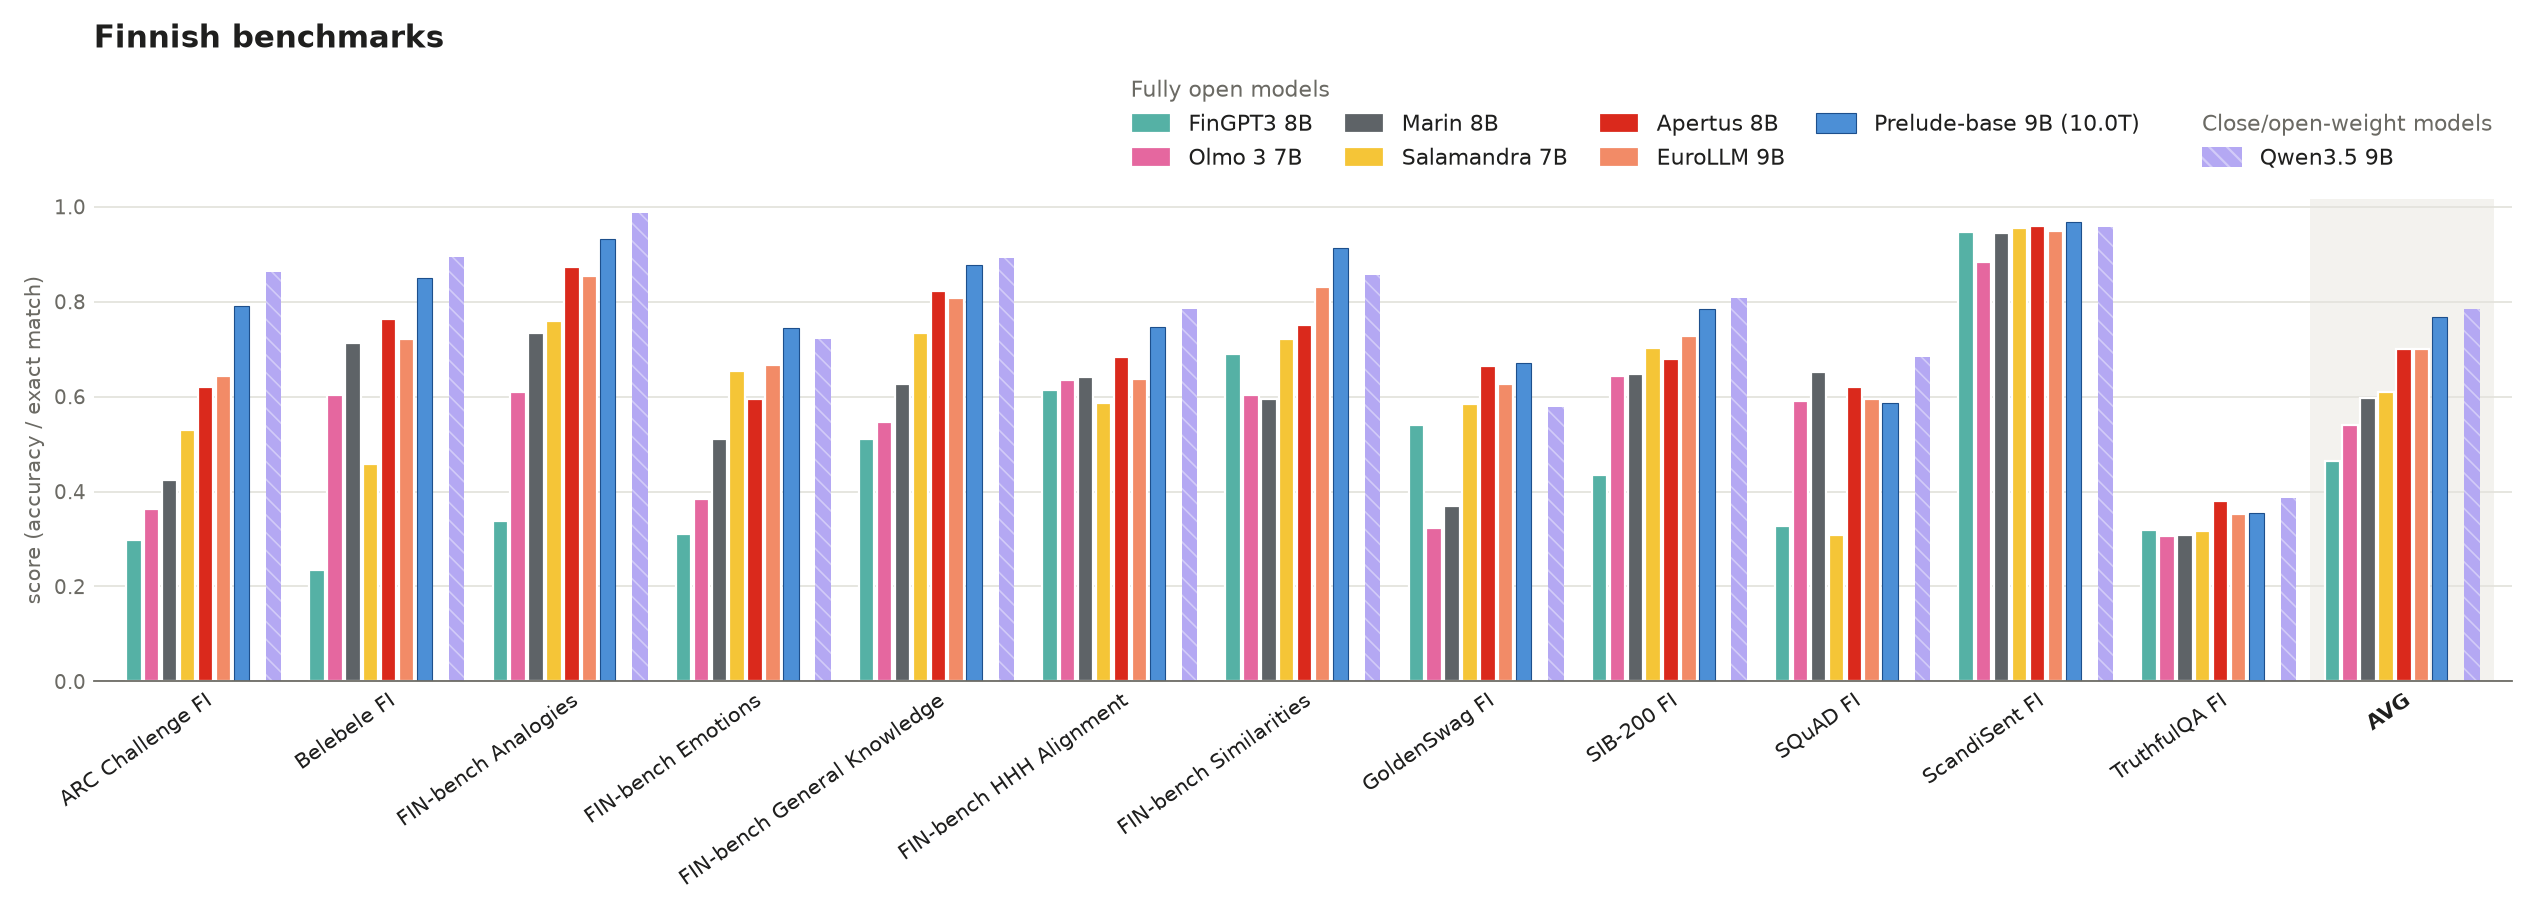
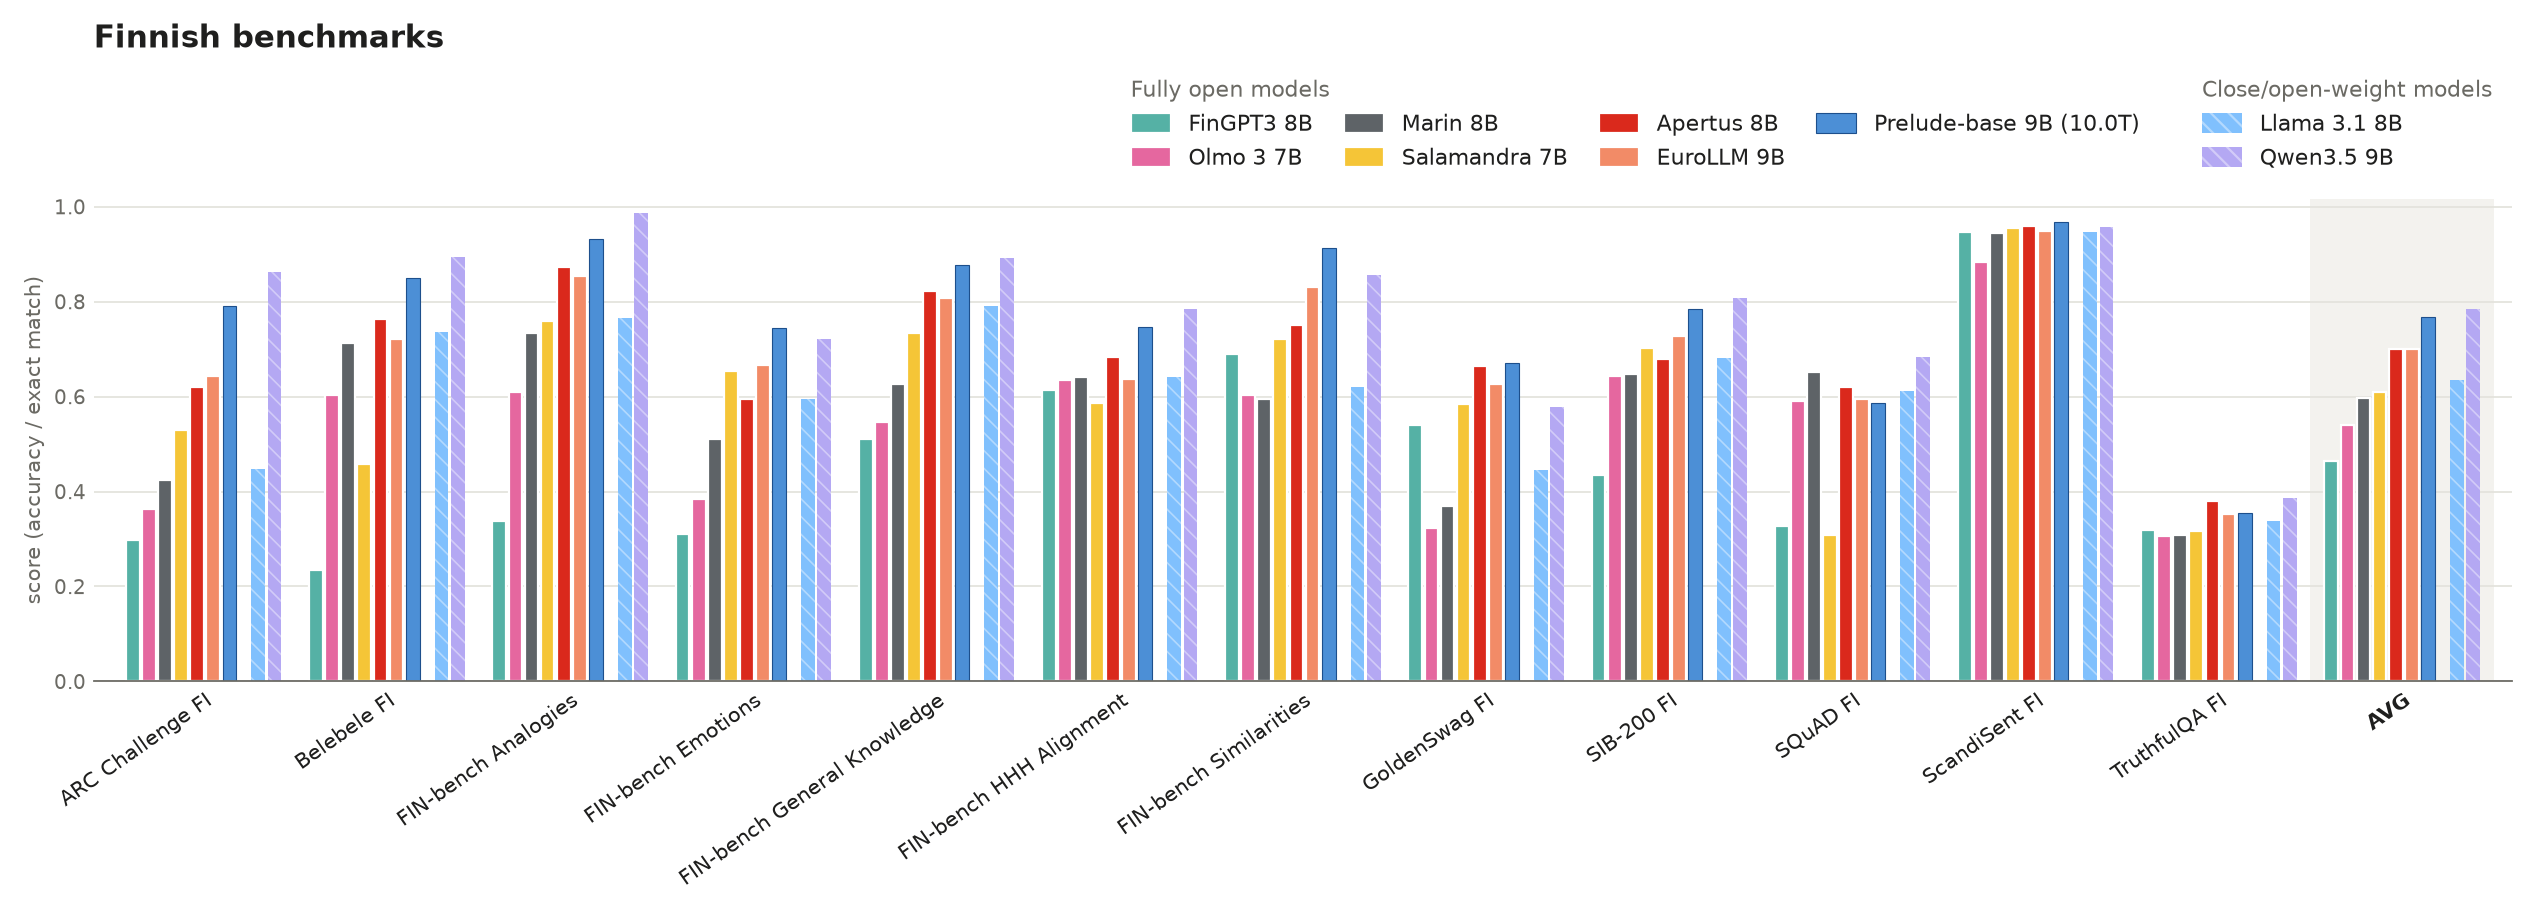
Add meta-llama/Llama-3.1-8B Finnish results

Changed region(s): [[0.0623, 0.2451, 0.9968, 0.7659], [0.8722, 0.0919, 0.9968, 0.1532]]

diff --git a/prelude-evaluations-model-card/plot_results.py b/prelude-evaluations-model-card/plot_results.py
@@ -225,6 +225,7 @@ FINNISH_MODELS = {
     "marin-community/marin-8b-base": "Marin 8B",
     "BSC-LT/salamandra-7b": "Salamandra 7B",
     "TurkuNLP/gpt3-finnish-8B": "FinGPT3 8B",
+    "meta-llama/Llama-3.1-8B": "Llama 3.1 8B",
     "Qwen/Qwen3.5-9B-Base": "Qwen3.5 9B",
 }
 FINNISH_GROUPS = {   # group task -> (shown name, metric)

diff --git a/prelude-evaluations-model-card/README.md b/prelude-evaluations-model-card/README.md
@@ -31,7 +31,7 @@ model repo in one commit, which needs an HF token with write access
 
 # Results
 
-Automatically generated by `plot_results.py` on 2026-11-12; do not edit below this line.
+Automatically generated by `plot_results.py` on 2026-11-14; do not edit below this line.
 
 ## English (decontaminated only)
 
@@ -111,4 +111,5 @@ Automatically generated by `plot_results.py` on 2026-11-12; do not edit below th
 | EuroLLM 9B | 0.64 | 0.72 | 0.85 | 0.67 | 0.81 | 0.64 | 0.83 | 0.63 | 0.73 | 0.60 | 0.95 | 0.35 | 0.70 |
 | Prelude-base 9B (10.0T) | 0.79 | 0.85 | 0.93 | **0.75** | 0.88 | 0.75 | **0.91** | **0.67** | 0.78 | 0.59 | **0.97** | 0.36 | 0.77 |
 | ***Close/open-weight models*** | | | | | | | | | | | | | |
+| Llama 3.1 8B | 0.45 | 0.74 | 0.76 | 0.59 | 0.79 | 0.64 | 0.62 | 0.44 | 0.68 | 0.61 | 0.95 | 0.34 | 0.63 |
 | Qwen3.5 9B | **0.86** | **0.89** | **0.99** | 0.72 | **0.89** | **0.78** | 0.86 | 0.58 | **0.81** | **0.68** | 0.96 | **0.39** | **0.78** |
